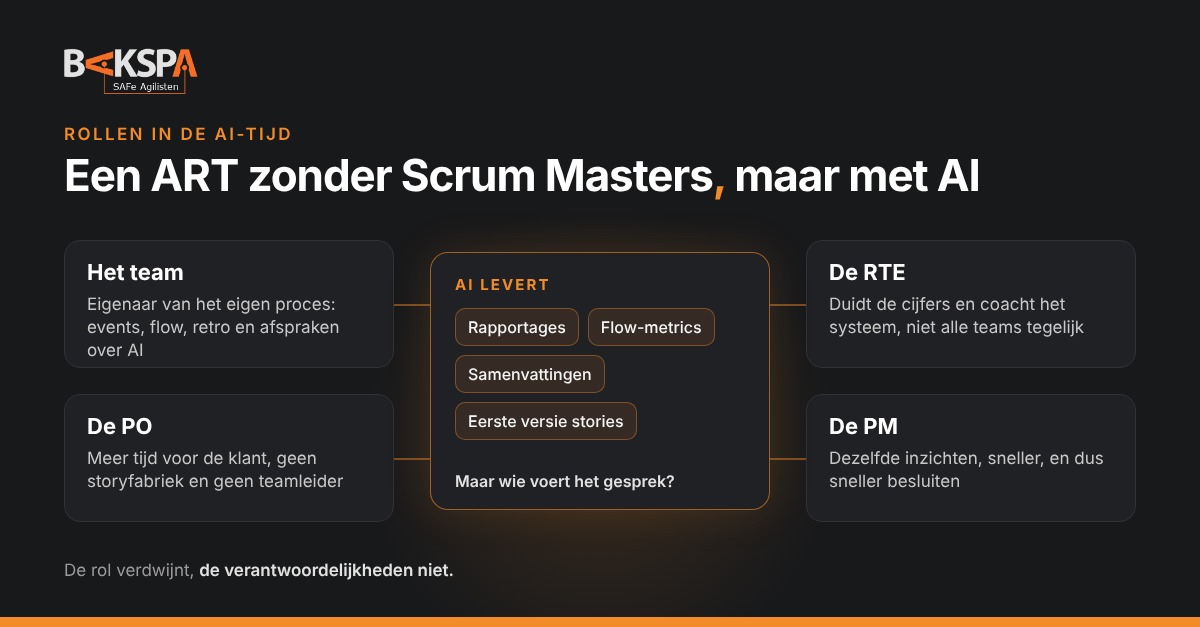
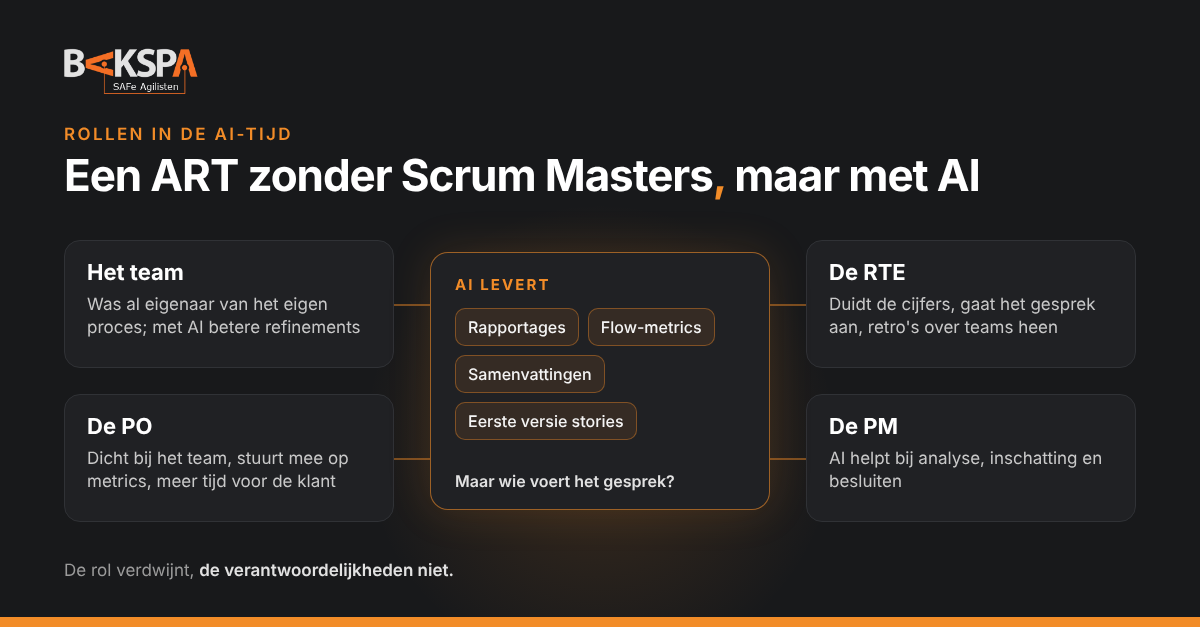
Artikel ART zonder Scrum Masters: rollen herschreven na review
Team was al eigenaar van het eigen proces; RTE en PO beginnen het gesprek
op basis van metrics. PO blijft dicht bij het team (valkuilen geschrapt),
RTE meer coach met retro's over teams heen, PM krijgt hulp van AI bij
analyse, inschatting en besluiten. Tabel, voorwaarden en illustratie mee
aangepast.

Claude-Session: https://claude.ai/code/session_01WDc2s4nJzfgTCK9RZWm4vK

diff --git a/illustraties/art-zonder-sm.html b/illustraties/art-zonder-sm.html
@@ -37,10 +37,10 @@
   <div class="line" style="left:394px; top:458px; width:36px"></div>
   <div class="line" style="left:770px; top:458px; width:36px"></div>
 
-  <div class="role r1"><div class="n">Het team</div><div class="t">Eigenaar van het eigen proces: events, flow, retro en afspraken over AI</div></div>
-  <div class="role r2"><div class="n">De RTE</div><div class="t">Duidt de cijfers en coacht het systeem, niet alle teams tegelijk</div></div>
-  <div class="role r3"><div class="n">De PO</div><div class="t">Meer tijd voor de klant, geen storyfabriek en geen teamleider</div></div>
-  <div class="role r4"><div class="n">De PM</div><div class="t">Dezelfde inzichten, sneller, en dus sneller besluiten</div></div>
+  <div class="role r1"><div class="n">Het team</div><div class="t">Was al eigenaar van het eigen proces; met AI betere refinements</div></div>
+  <div class="role r2"><div class="n">De RTE</div><div class="t">Duidt de cijfers, gaat het gesprek aan, retro's over teams heen</div></div>
+  <div class="role r3"><div class="n">De PO</div><div class="t">Dicht bij het team, stuurt mee op metrics, meer tijd voor de klant</div></div>
+  <div class="role r4"><div class="n">De PM</div><div class="t">AI helpt bij analyse, inschatting en besluiten</div></div>
 
   <div class="ai">
     <div class="k">AI LEVERT</div>

diff --git a/blog/2026-11-18-art-zonder-scrum-masters-ai.md b/blog/2026-11-18-art-zonder-scrum-masters-ai.md
@@ -7,7 +7,7 @@ image: /img/blog/art-zonder-scrum-masters-ai.png
 hide_table_of_contents: true
 ---
 
-![Illustratie: in het midden een AI-blok dat rapportages, flow-metrics, samenvattingen en eerste versies van stories levert. Daaromheen vier rollen: het team, de PO, de RTE en de PM, elk met wat er voor hen verandert. Onderaan: de rol verdwijnt, de verantwoordelijkheden niet.](/img/blog/art-zonder-scrum-masters-ai.png)
+![Illustratie: in het midden een AI-blok dat rapportages, flow-metrics, samenvattingen en eerste versies van stories levert. Daaromheen vier rollen: het team (al eigenaar van het eigen proces), de PO (dicht bij het team, meer tijd voor de klant), de RTE (duidt de cijfers en coacht, ook over teams heen) en de PM (AI helpt bij analyse, inschatting en besluiten). Onderaan: de rol verdwijnt, de verantwoordelijkheden niet.](/img/blog/art-zonder-scrum-masters-ai.png)
 
 Onlangs kreeg ik de vraag: klopt het dat er bij ING geen Scrum Masters meer werken, en dat de RTE de rol van teamcoach heeft overgenomen? Het eerste klopt, al is het geen nieuws. Voor het tweede heb ik geen enkele bron gevonden. Maar de vraag erachter vind ik wel interessant. Stel dat je een ART hebt zonder Scrum Masters, en met veel inzet van AI voor rapportage en inzichten. Wie doet dan wat?
 
@@ -29,7 +29,7 @@ Maar de AI-Empowered RTE-training is er duidelijk over. AI is heel goed in het v
 
 Het onderzoek van DORA naar AI in softwareontwikkeling, onder bijna 5.000 professionals, laat zien waarom dat zo belangrijk is. [AI werkt vooral als versterker](https://dora.dev/dora-report-2025/). Het maakt sterke organisaties sterker en zwakke organisaties zwakker. Bijna iedereen gebruikt het inmiddels, maar [heel weinig ontwikkelaars vertrouwen de output echt](https://www.infoq.com/news/2025/09/dora-state-of-ai-in-dev-2025).
 
-Dat is de kern van mijn verhaal. **AI levert de inzichten, maar niet het gesprek over die inzichten.** En juist dat gesprek voerde een goede Scrum Master.
+Dat is de kern van mijn verhaal. **AI levert de inzichten, maar niet het gesprek over die inzichten.** Dat gesprek voerde vaak de Scrum Master. Zonder Scrum Master moeten anderen het oppakken, vooral de RTE en de PO.
 
 ## De rol verdwijnt, de verantwoordelijkheden niet
 
@@ -40,43 +40,47 @@ Het framework omschrijft de Scrum Master/Team Coach als [servant leader en coach
 | Taak | Met Scrum Master | Zonder SM, met AI | Waar het misgaat |
 |---|---|---|---|
 | Voortgang en rapportage | Scrum Master | AI, gecontroleerd door de RTE | Een groen dashboard waar niemand naar vraagt |
-| Team events faciliteren | Scrum Master | Het team zelf, bij toerbeurt | Events worden een ritueel zonder doel |
-| Flow verbeteren | Scrum Master, samen met het team | Het team, met de inzichten van AI | Iedereen ziet de knelpunten, niemand pakt ze op |
-| Een high-performing team bouwen | Scrum Master | Het team, met hulp van een coach als het nodig is | Conflicten blijven liggen |
+| Team events faciliteren | Scrum Master, tot het team het zelf kan | Het team zelf | Events worden een ritueel zonder doel |
+| Flow en voorspelbaarheid volgen | Scrum Master, samen met het team | Het team, met de metrics van AI; PO en RTE kijken mee | Iedereen ziet de cijfers, niemand begint het gesprek |
+| Teamontwikkeling | Scrum Master | Het team; de RTE als coach als de metrics achteruitgaan | Problemen worden pas laat zichtbaar |
+| Retrospectives | Per team, met de Scrum Master | Per team, en vaker over teams heen met de RTE | Elk team verbetert alleen zichzelf |
 | Impediments buiten het team | Scrum Master, daarna de RTE | Direct de RTE | De RTE wordt een flessenhals |
-| AI-afspraken in het team | Scrum Master faciliteert, het team besluit | Het team | Geen afspraken, of ieder voor zich |
 
 </div>
 
-Wat opvalt: er komt veel bij het team en bij de RTE terecht. Dat gaat alleen goed als je het bewust zo regelt.
+Wat opvalt: veel ligt al bij het team, en de RTE en de PO krijgen er een rol bij. Zij beginnen het gesprek als de cijfers daar aanleiding toe geven.
 
 ## Wat dit betekent per rol
 
-### Het team: eigenaar van het eigen proces
+### Het team: eigenaar van het eigen proces, en dat was het al
 
-Het team was al eigenaar van de realisatie. Zonder Scrum Master wordt het ook eigenaar van het eigen proces: de events faciliteren, knelpunten in de flow oppakken en de retro zelf scherp houden. Dat vraagt vaardigheden die veel teams nog niet hebben. Faciliteren is een vak.
+Eerlijk is eerlijk: een volwassen team is al eigenaar van het eigen proces. Een goede Scrum Master maakt zichzelf overbodig. Het team faciliteert de eigen events, pakt knelpunten in de flow op en houdt de retro scherp. Zonder Scrum Master verandert er voor zo'n team dus minder dan je zou denken.
 
-Het team besluit ook over AI. Welke tools gebruiken we, waarvoor wel en waarvoor niet, en wie controleert de output? In SAFe® for Teams is AI een denkpartner, geen auteur. Wie een AI-story overneemt, is er zelf verantwoordelijk voor.
+Wat wel verandert, is het werk zelf. Met AI worden refinements beter: stories zijn sneller uitgewerkt, vragen en risico's komen eerder op tafel, en de inspanning die het team moet leveren om iets te maken verandert mee. Het team besluit zelf welke AI-tools het gebruikt, waarvoor wel en waarvoor niet. In SAFe® for Teams is AI een denkpartner, geen auteur. Wie een AI-story overneemt, is er zelf verantwoordelijk voor.
 
-### De PO: meer tijd voor de klant, als hij die tijd neemt
+En als het minder gaat? Dan zie je dat in de metrics: de voorspelbaarheid zakt, de doorlooptijd loopt op, er blijft meer werk halverwege hangen. Dat is het moment waarop de RTE of de PO het gesprek met het team aangaat. Niet om af te rekenen, maar om samen te kijken wat er speelt.
 
-AI schrijft een prima eerste versie van een story, met acceptatiecriteria erbij. Dat geeft de PO tijd voor wat echt telt: de klant begrijpen, feedback ophalen en de juiste dingen prioriteren. In de AI-Empowered POPM-training komen de spanningen terug: sneller ontdekken tegenover context kwijtraken, meer data tegenover te veel om te kunnen besluiten, efficiëntie tegenover minder eigen oordeel bij het prioriteren.
+### De PO: dicht bij het team, en meer tijd voor de klant
 
-Er zijn twee valkuilen. De PO wordt een storyfabriek, terwijl een story juist [een belofte voor een gesprek](https://scaledagileframework.com/story/) is. Of de PO wordt stilletjes de teamleider, omdat er niemand anders is die het team bij elkaar houdt. Dan zit het *wat* en het *hoe* bij één persoon, en dat is precies wat je niet wilt.
+De PO blijft gewoon betrokken bij het team: bij refinements, bij de planning, bij het accepteren van stories. Een story blijft [een belofte voor een gesprek](https://scaledagileframework.com/story/), en dat gesprek voert de PO met het team.
 
-### De RTE: van verzamelaar naar duider, en coach van het systeem
+Wat verandert: AI helpt de PO bij het uitwerken van epics en features tot stories. Dat scheelt tijd, en die tijd gaat naar de klant: begrijpen wat er echt nodig is, feedback ophalen en de juiste dingen prioriteren. Daarnaast gaat de PO meer metrics gebruiken. Hoe voorspelbaar is het team, waar loopt het werk vast, halen we wat we beloven? Dat geeft de PO een eigen inzicht, en een reden om het gesprek aan te gaan.
+
+In de AI-Empowered POPM-training komen wel een paar spanningen terug om scherp op te blijven: sneller ontdekken tegenover context kwijtraken, en meer data tegenover te veel om nog te kunnen besluiten.
+
+### De RTE: van verzamelaar naar duider, en meer coach
 
 Hier verandert het meest. Normaal kan de RTE het verzamelen van metrics bij de Scrum Masters neerleggen. Nu doet AI dat. De RTE wordt dan degene die de cijfers duidt: klopt dit, wat mist er, en welk gesprek moeten we hierover voeren?
 
-Wat de RTE níet moet worden, is teamcoach van alle teams tegelijk. Met acht of tien teams lukt dat niet, en dan mis je óf het niveau van de ART óf het niveau van het team. Wat wel werkt, is het systeem coachen: zorgen dat elk team iemand heeft die kan faciliteren, die mensen samenbrengen in een Coach Sync of community, en coaching inhuren of organiseren waar een team vastloopt. Een beetje zoals ING dat met enabling teams doet.
+Dat gesprek voert de RTE ook zelf, met de teams. De RTE gaat zich daardoor meer als coach gedragen: niet als teamcoach die bij elk team elke dag aanschuift, maar als coach die aanschuift waar de cijfers of de teams daar om vragen. Een mooie vorm daarvoor zijn gezamenlijke retro's met meerdere teams tegelijk. Veel knelpunten zitten tussen teams in, en die los je niet op in de retro van één team.
 
 Daarnaast komt er iets nieuws bij: AI governance. De RTE-training zegt het scherp. Zodra je AI zelf laat handelen, met agents in plaats van alleen hulpmiddelen, wordt de verantwoordelijkheid van leiders groter, niet kleiner. Iemand moet afspreken wat AI mag, en wie er eigenaar is van wat AI oplevert. AI kan R zijn of C, maar [de A blijft bij een mens](/blog/raci-pm-po-rte-sm).
 
-### De PM: dezelfde inzichten, sneller, en dus minder excuses
+### De PM: minder analyse, betere besluiten
 
-Voor de PM is het misschien het meest dubbel. AI levert klantinzichten, marktinformatie en flow-data van de ART, vaak in real time. De PM hoeft niet meer te wachten op een statusrapport van de RTE, maar ziet hetzelfde als de teams.
+Voor de PM neemt AI een groot deel van het analysewerk over: klantinzichten en marktinformatie verwerken, features doorrekenen, en een eerste inschatting maken van complexiteit en inspanning. De PM ziet ook dezelfde flow-data van de ART als de teams, en hoeft niet meer op een statusrapport te wachten.
 
-Dat is goed nieuws, met een keerzijde: meer data betekent niet betere besluiten. De PM moet sneller kiezen, juist omdat de informatie er al is. Wie dan nog wacht, wacht niet meer op informatie, maar op zichzelf. Daarover schreef ik eerder in [Wat besluiteloosheid je ART kost](/blog/besluiteloosheid-budget-art).
+AI helpt de PM zo ook bij het besluiten zelf: opties naast elkaar zetten, de gevolgen doordenken, de cost of delay inschatten. Het besluit blijft wel bij de PM. En omdat de informatie er sneller is, kan, en moet, het besluit ook sneller vallen. Wie dan nog wacht, wacht niet meer op informatie. Daarover schreef ik eerder in [Wat besluiteloosheid je ART kost](/blog/besluiteloosheid-budget-art).
 
 ## Kan het, een ART zonder Scrum Masters?
 
@@ -85,15 +89,15 @@ Ja, onder voorwaarden. Ik zie vier dingen die je dan echt moet regelen.
 <div className="checks">
 
 - **Beleg de verantwoordelijkheden expliciet.** Stel niet de vraag "hebben we een Scrum Master nodig?", maar "wie is eigenaar van flow, teamontwikkeling en verbetering?" Schrijf het antwoord op, per team.
-- **Investeer in het team.** Leer teams faciliteren, retro's leiden en conflicten aangaan. Zonder dat wordt zelforganisatie een ander woord voor "niemand".
-- **Organiseer coaching als dienst.** Een coach of klein team dat meedraait waar het nodig is en weer weggaat, in plaats van een vaste Scrum Master per team.
+- **Begin pas als de teams er klaar voor zijn.** Een team dat zijn eigen events faciliteert, retro's leidt en conflicten aangaat, heeft geen Scrum Master meer nodig. Een team dat dat nog niet kan, wel.
+- **Spreek af wie het gesprek begint.** Welke metrics volgen de RTE en de PO, en bij welke signalen gaan ze met een team in gesprek? Zo wordt een dalende lijn een gesprek, en niet pas een probleem.
 - **Maak afspraken over AI-inzichten.** Elk AI-rapport heeft een menselijke eigenaar die het controleert. Gebruik de cijfers om het gesprek te beginnen, niet om af te rekenen.
 
 </div>
 
 Mijn eerlijke inschatting: voor een volwassen ART met ervaren teams kan dit goed werken. Voor een nieuwe ART, of teams die nog zoeken, is het weghalen van de Scrum Master een bezuiniging die je later terugbetaalt. AI versterkt wat er al is. Een team dat goed samenwerkt, wordt met AI beter. Een team dat dat niet doet, krijgt vooral mooiere dashboards.
 
-Hoe is het bij jullie: wie voert het gesprek over de inzichten die AI levert?
+Hoe is het bij jullie: wie begint het gesprek als de cijfers achteruitgaan?
 
 <Cta titel="Rollen opnieuw verdelen in jullie ART?">
 
